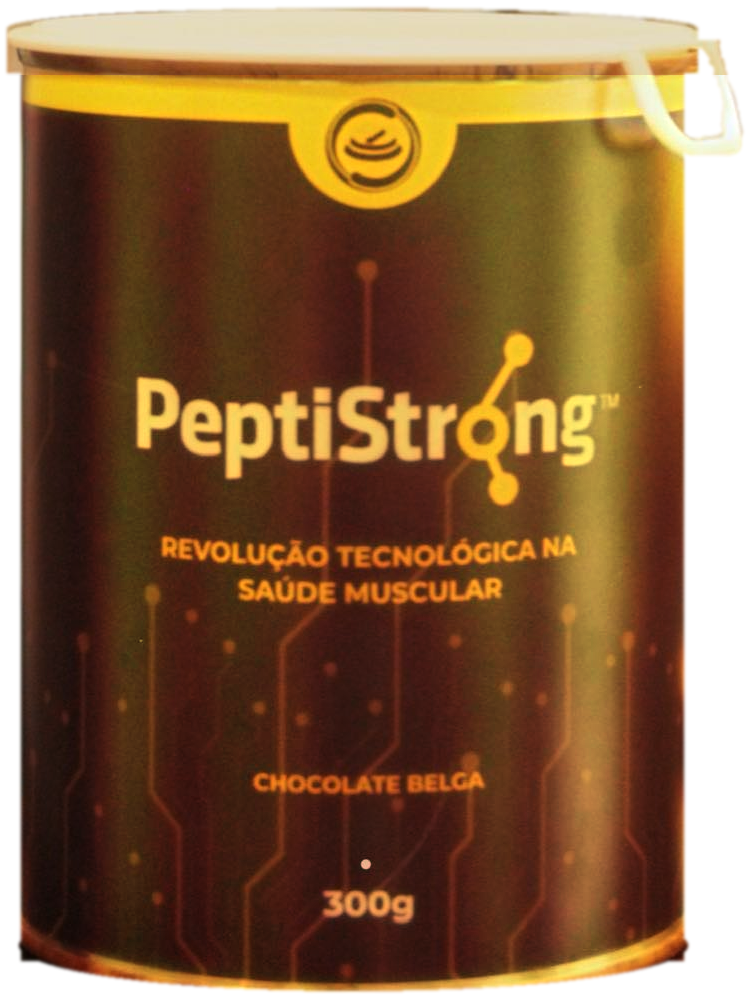
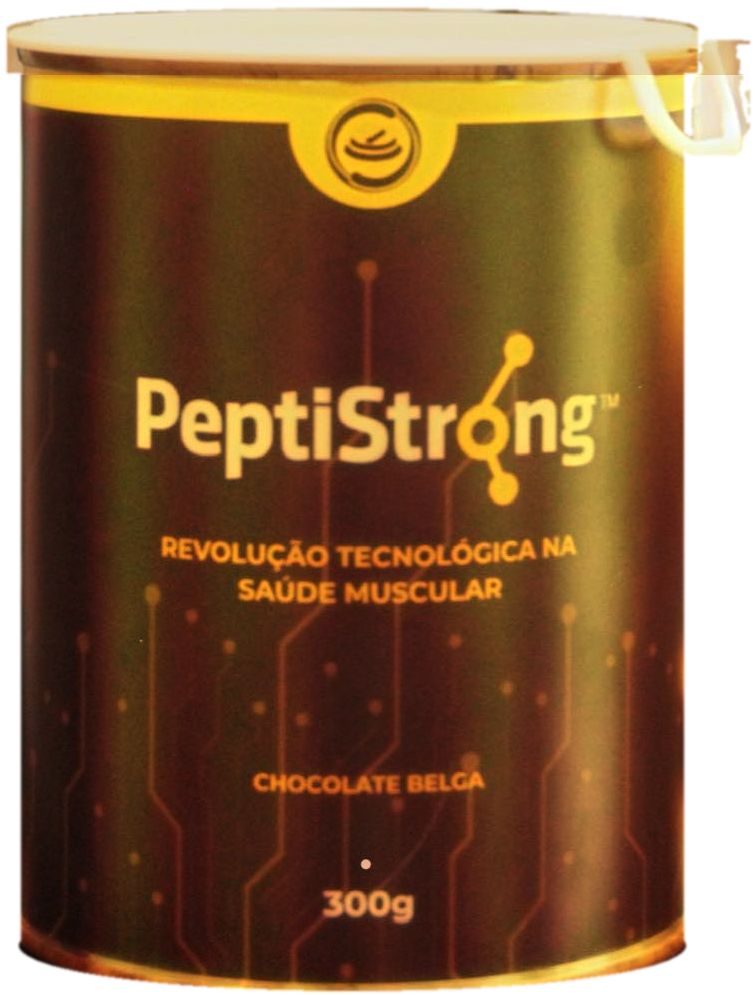
Inserção: sombra de contato, oclusão na base do produto e recorte da lata sem degrau
Claude-Session: https://claude.ai/code/session_01Bm6rABw341qEUcQn2o9EUx

Changed region(s): [[0.9139, 0.0312, 1.0, 0.1558], [0.8834, 0.9347, 0.9139, 0.9658], [0.0305, 0.9347, 0.0609, 0.9658]]

diff --git a/grade/insere_produto.py b/grade/insere_produto.py
@@ -123,7 +123,8 @@ def recoloca_rotulo(cena_original, montagem, harmonizada, caixa_corpo, raio_luz=
 
 def insere_foto(cena, recorte_png, base_centro, largura_corpo, frac_corpo=662/755, curvatura_extra=0.0,
                 cor_tampa=(240, 236, 228), luz_esq=1.12, luz_dir=0.72, cor_luz=(255, 240, 224), sombra_dir=(0.9, -0.12),
-                sombra_forca=140, sombra_blur=None, sombra_escuro=0.4):
+                sombra_forca=140, sombra_blur=None, sombra_escuro=0.4,
+                contato_elipse=0.12, contato_escuro=0.18, afunda=3, base_escurece=0.5, base_faixa=0.10):
     """Insere uma FOTO REAL recortada do produto (PNG com transparência, tampa e alça reais).
     largura_corpo: largura do corpo na cena, em px (medir contra o copo/tigela).
     frac_corpo: largura do corpo / largura do recorte (o recorte inclui a alça).
@@ -157,7 +158,7 @@ def insere_foto(cena, recorte_png, base_centro, largura_corpo, frac_corpo=662/75
     gl = np.asarray(g).astype(float)[..., None] / 255 * 1.3
     arr = np.clip(arr * gl, 0, 1) * (np.array(cor_luz) / 255)
     rgb = Image.fromarray((arr * 255).astype(np.uint8))
-    ox = int(base_centro[0] - cw / 2); oy = int(base_centro[1] - (h + 2 * e))
+    ox = int(base_centro[0] - cw / 2); oy = int(base_centro[1] - (h + 2 * e)) + afunda
     cena = cena.convert('RGB').copy()
     # 3) manchas de luz da cena
     reg = cena.crop((ox, oy, ox + rgb.width, oy + rgb.height)).convert('L').filter(ImageFilter.GaussianBlur(5))
@@ -172,12 +173,26 @@ def insere_foto(cena, recorte_png, base_centro, largura_corpo, frac_corpo=662/75
     # sombra projetada: parte da base e vai para o lado oposto à luz (dx<0 = luz da direita)
     cd.polygon([(bx0, by), (bx1, by), (bx1 + dx, by + dy), (bx0 + dx, by + dy)], fill=sombra_forca)
     camada = camada.filter(ImageFilter.GaussianBlur(sombra_blur or max(8, cw // 9)))
+    # contato: oclusão sob toda a base (elipse do apoio no ângulo da cena) + linha escura no ponto de apoio
     contato = Image.new('L', cena.size, 0); ct = ImageDraw.Draw(contato)
-    ct.ellipse((ox + 1, by - e - 2, ox + cw - 1, by + e * 0.6 + 3), fill=220)
-    contato = contato.filter(ImageFilter.GaussianBlur(max(2, cw // 50)))
-    somb = ImageChops.lighter(camada, contato)
+    eh = contato_elipse * cw
+    ct.ellipse((ox - cw * 0.03, by - eh * 0.9, ox + cw * 1.03, by + eh * 0.35), fill=200)
+    contato = contato.filter(ImageFilter.GaussianBlur(max(3, cw // 30)))
+    nucleo = Image.new('L', cena.size, 0); nd = ImageDraw.Draw(nucleo)
+    nd.ellipse((ox + cw * 0.01, by - eh * 0.25, ox + cw * 0.99, by + eh * 0.12), fill=255)
+    nucleo = nucleo.filter(ImageFilter.GaussianBlur(2))
+    escuro_ct = ImageChops.multiply(ImageEnhance.Brightness(cena).enhance(contato_escuro), Image.new('RGB', cena.size, (255, 232, 215)))
+    cena = Image.composite(escuro_ct, cena, ImageChops.lighter(contato.point(lambda v: int(v * 0.75)), nucleo))
+    somb = camada
     escuro = ImageChops.multiply(ImageEnhance.Brightness(cena).enhance(sombra_escuro), Image.new('RGB', cena.size, (255, 236, 222)))
     cena = Image.composite(escuro, cena, somb)
+    # 4b) oclusão no próprio produto: a parte de baixo escurece perto da superfície
+    gb = Image.new('L', (1, rgb.height), 255)
+    f0 = int(rgb.height * (1 - base_faixa))
+    for y in range(f0, rgb.height):
+        k = (y - f0) / max(1, rgb.height - f0); gb.putpixel((0, y), int(255 * (1 - (1 - base_escurece) * k ** 1.5)))
+    gb = gb.resize(rgb.size)
+    rgb = ImageChops.multiply(rgb, Image.merge('RGB', [gb] * 3))
     # 5) light wrap, nitidez e grão
     fundo = cena.crop((ox, oy, ox + rgb.width, oy + rgb.height)).filter(ImageFilter.GaussianBlur(8))
     borda = ImageChops.subtract(a, a.filter(ImageFilter.MinFilter(5))).filter(ImageFilter.GaussianBlur(1.5))

diff --git a/grade/produtos/peptistrong/recorte.py b/grade/produtos/peptistrong/recorte.py
@@ -1,0 +1,37 @@
+"""Recorte da lata real do Peptistrong a partir da foto de 03/09/2025 (post @medicinalnaweb).
+
+Fonte: g25/18051882080234910.jpg (1416x2518), baixada pelo workflow de leitura do feed.
+Máscara geométrica: tampa (elipse fina + saia), corpo (retângulo até o CENTRO da elipse da base,
+para não criar degrau nos cantos), base (elipse), alça (pixels claros e pouco saturados na região).
+"""
+from PIL import Image, ImageDraw, ImageFilter
+import numpy as np
+
+CAIXA = (225, 1220, 980, 2215)   # recorte final (inclui alça)
+CORPO_LARGURA = 662              # largura do corpo em px na foto (908-246)
+
+
+def mascara(foto):
+    W, H = foto.size
+    m = Image.new('L', (W, H), 0); d = ImageDraw.Draw(m)
+    d.ellipse((232, 1228, 922, 1268), fill=255); d.rectangle((232, 1248, 922, 1292), fill=255)   # tampa
+    d.rectangle((246, 1270, 908, 2165), fill=255)                                              # corpo até o centro da base
+    d.ellipse((244, 2120, 910, 2210), fill=255)                                                # base
+    A = np.asarray(foto).astype(int); box = (880, 1260, 975, 1375)
+    sub = A[box[1]:box[3], box[0]:box[2]]
+    alca = (sub.max(2) > 205) & ((sub.max(2) - sub.min(2)) < 60)
+    m.paste(255, box, Image.fromarray((alca * 255).astype(np.uint8)).filter(ImageFilter.MaxFilter(3)))
+    return m.filter(ImageFilter.GaussianBlur(1.2))
+
+
+def recorta(foto_full, tampa_original=None):
+    """foto_full: a foto inteira (pode estar reiluminada). tampa_original: foto sem reiluminar, para a
+    faixa da tampa branca voltar ao tom real (o mapa de luz deixa a tampa acinzentada)."""
+    m = mascara(foto_full)
+    can = foto_full.crop(CAIXA).convert('RGBA'); can.putalpha(m.crop(CAIXA))
+    if tampa_original is not None:
+        L = np.asarray(can).astype(float); O = np.asarray(tampa_original.crop(CAIXA).convert('RGB')).astype(float)
+        lid = np.zeros(L.shape[:2]); lid[0:75, :] = 1
+        L[..., :3] = L[..., :3] * (1 - lid[..., None]) + O * np.array([1.0, 0.96, 0.88]) * lid[..., None]
+        can = Image.fromarray(L.astype(np.uint8), 'RGBA')
+    return can
